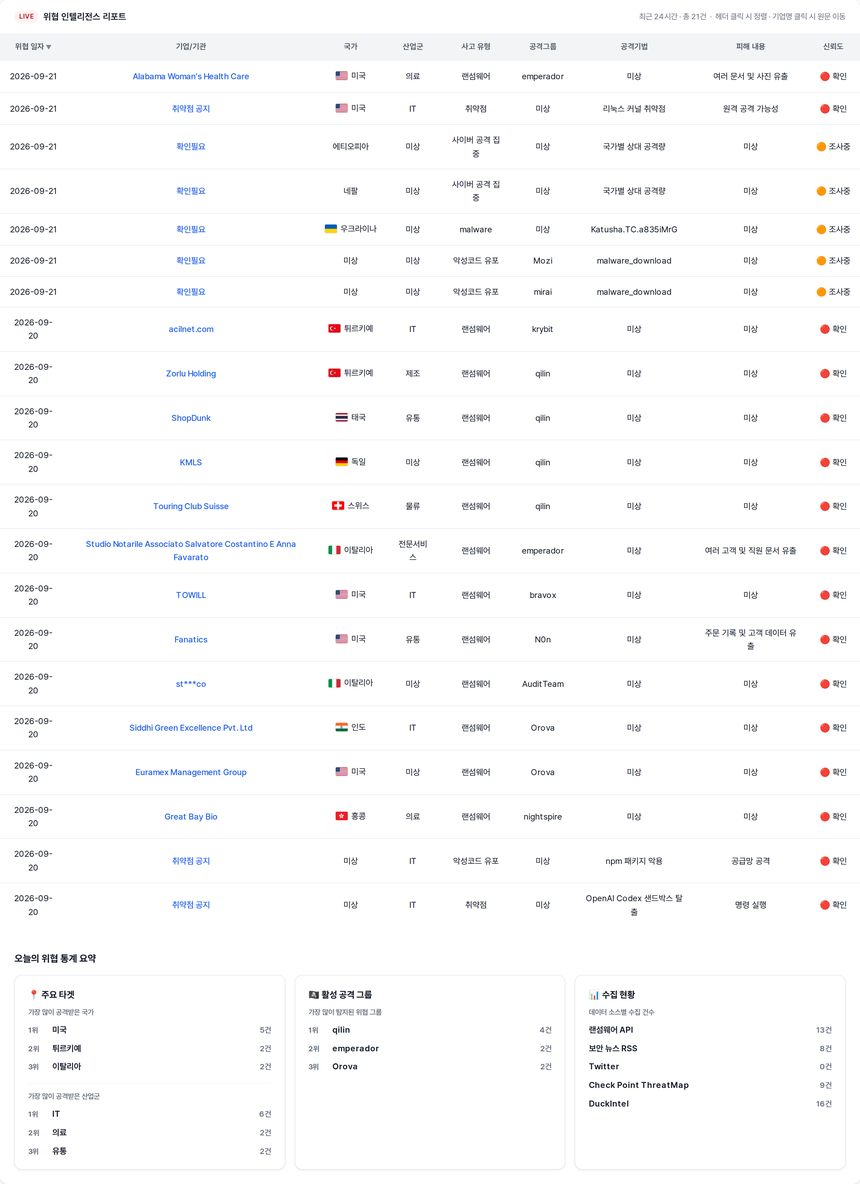
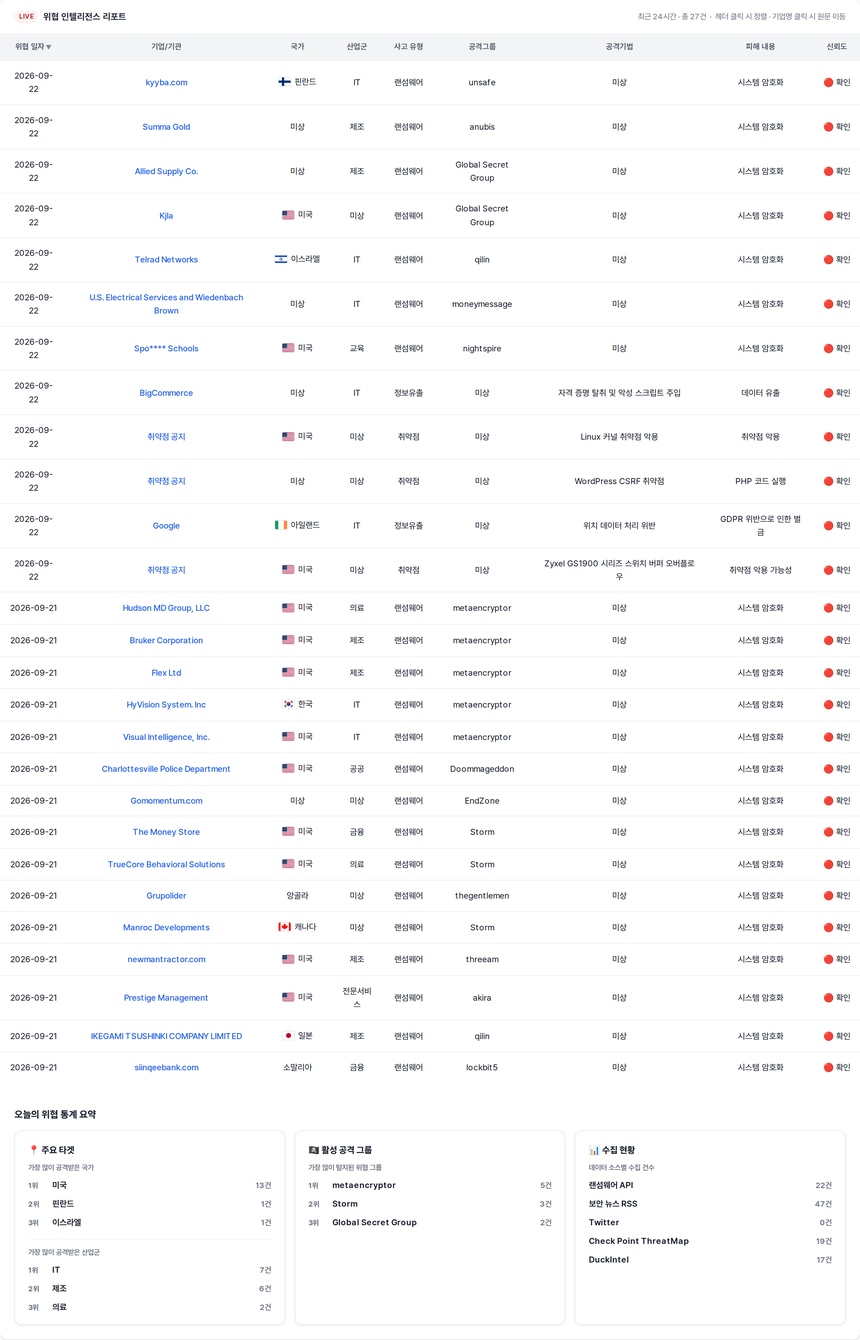
deploy: 9c533ad8fcaa3f846a31aadab046301a26f1192c

diff --git a/index.html b/index.html
@@ -3,7 +3,7 @@
 <head>
   <meta charset="UTF-8" />
   <meta name="viewport" content="width=device-width, initial-scale=1.0" />
-  <title>🚨 2026년 09월 21일 국내/해외 사이버 위협 현황</title>
+  <title>🚨 2026년 09월 22일 국내/해외 사이버 위협 현황</title>
   <link rel="preconnect" href="https://cdn.jsdelivr.net" />
   <link href="https://cdn.jsdelivr.net/gh/orioncactus/pretendard/dist/web/static/pretendard.css" rel="stylesheet" />
   <style>
@@ -253,7 +253,7 @@
 </head>
 <body>
   <div class="page-header">
-    <h1 class="page-title">🚨 2026년 09월 21일 국내/해외 사이버 위협 현황</h1>
+    <h1 class="page-title">🚨 2026년 09월 22일 국내/해외 사이버 위협 현황</h1>
   </div>
 
   <div class="dashboard">
@@ -261,33 +261,39 @@
     <div class="card-header">
       <span class="badge">LIVE</span>
       <span class="card-title">위협 인텔리전스 리포트</span>
-      <span class="card-count">최근 24시간 · 총 21건 &nbsp;·&nbsp; 헤더 클릭 시 정렬 · 기업명 클릭 시 원문 이동</span>
+      <span class="card-count">최근 24시간 · 총 27건 &nbsp;·&nbsp; 헤더 클릭 시 정렬 · 기업명 클릭 시 원문 이동</span>
     </div>
     <div class="table-wrap" style="overflow-x: auto; -webkit-overflow-scrolling: touch;">
       <table id="threat-table">
         <thead><tr><th onclick="sortTable(0)" data-col="0" class="sort-desc">위협 일자</th><th onclick="sortTable(1)" data-col="1">기업/기관</th><th onclick="sortTable(2)" data-col="2">국가</th><th onclick="sortTable(3)" data-col="3">산업군</th><th onclick="sortTable(4)" data-col="4">사고 유형</th><th onclick="sortTable(5)" data-col="5">공격그룹</th><th onclick="sortTable(6)" data-col="6">공격기법</th><th onclick="sortTable(7)" data-col="7">피해 내용</th><th onclick="sortTable(8)" data-col="8">신뢰도</th></tr></thead>
         <tbody>
-<tr><td>2026-09-21</td><td><a href="https://www.ransomware.live/id/QWxhYmFtYSBXb21hbidzIEhlYWx0aCBDYXJlQGVtcGVyYWRvcg==" target="_blank" rel="noopener noreferrer">Alabama Woman&#x27;s Health Care</a></td><td class="country"><span class="country-cell"><img class="flag" src="https://flagcdn.com/w40/us.png" alt="미국" width="20" height="14" />미국</span></td><td>의료</td><td>랜섬웨어</td><td>emperador</td><td>미상</td><td>여러 문서 및 사진 유출</td><td>🔴 확인</td></tr>
-<tr><td>2026-09-21</td><td><a href="https://www.dailysecu.com/news/articleView.html?idxno=208559" target="_blank" rel="noopener noreferrer">취약점 공지</a></td><td class="country"><span class="country-cell"><img class="flag" src="https://flagcdn.com/w40/us.png" alt="미국" width="20" height="14" />미국</span></td><td>IT</td><td>취약점</td><td>미상</td><td>리눅스 커널 취약점</td><td>원격 공격 가능성</td><td>🔴 확인</td></tr>
-<tr><td>2026-09-21</td><td><a href="https://threatmap.checkpoint.com/" target="_blank" rel="noopener noreferrer">확인필요</a></td><td class="country"><span class="country-cell">에티오피아</span></td><td>미상</td><td>사이버 공격 집중</td><td>미상</td><td>국가별 상대 공격량</td><td>미상</td><td>🟠 조사중</td></tr>
-<tr><td>2026-09-21</td><td><a href="https://threatmap.checkpoint.com/" target="_blank" rel="noopener noreferrer">확인필요</a></td><td class="country"><span class="country-cell">네팔</span></td><td>미상</td><td>사이버 공격 집중</td><td>미상</td><td>국가별 상대 공격량</td><td>미상</td><td>🟠 조사중</td></tr>
-<tr><td>2026-09-21</td><td><a href="https://threatmap.checkpoint.com/" target="_blank" rel="noopener noreferrer">확인필요</a></td><td class="country"><span class="country-cell"><img class="flag" src="https://flagcdn.com/w40/ua.png" alt="우크라이나" width="20" height="14" />우크라이나</span></td><td>미상</td><td>malware</td><td>미상</td><td>Katusha.TC.a835iMrG</td><td>미상</td><td>🟠 조사중</td></tr>
-<tr><td>2026-09-21</td><td><a href="https://urlhaus.abuse.ch/url/3919134/" target="_blank" rel="noopener noreferrer">확인필요</a></td><td class="country"><span class="country-cell">미상</span></td><td>미상</td><td>악성코드 유포</td><td>Mozi</td><td>malware_download</td><td>미상</td><td>🟠 조사중</td></tr>
-<tr><td>2026-09-21</td><td><a href="https://urlhaus.abuse.ch/url/3919133/" target="_blank" rel="noopener noreferrer">확인필요</a></td><td class="country"><span class="country-cell">미상</span></td><td>미상</td><td>악성코드 유포</td><td>mirai</td><td>malware_download</td><td>미상</td><td>🟠 조사중</td></tr>
-<tr><td>2026-09-20</td><td><a href="https://www.ransomware.live/id/YWNpbG5ldC5jb21Aa3J5Yml0" target="_blank" rel="noopener noreferrer">acilnet.com</a></td><td class="country"><span class="country-cell"><img class="flag" src="https://flagcdn.com/w40/tr.png" alt="튀르키예" width="20" height="14" />튀르키예</span></td><td>IT</td><td>랜섬웨어</td><td>krybit</td><td>미상</td><td>미상</td><td>🔴 확인</td></tr>
-<tr><td>2026-09-20</td><td><a href="https://www.ransomware.live/id/Wm9ybHUgSG9sZGluZ0BxaWxpbg==" target="_blank" rel="noopener noreferrer">Zorlu Holding</a></td><td class="country"><span class="country-cell"><img class="flag" src="https://flagcdn.com/w40/tr.png" alt="튀르키예" width="20" height="14" />튀르키예</span></td><td>제조</td><td>랜섬웨어</td><td>qilin</td><td>미상</td><td>미상</td><td>🔴 확인</td></tr>
-<tr><td>2026-09-20</td><td><a href="https://www.ransomware.live/id/U2hvcER1bmtAcWlsaW4=" target="_blank" rel="noopener noreferrer">ShopDunk</a></td><td class="country"><span class="country-cell"><img class="flag" src="https://flagcdn.com/w40/th.png" alt="태국" width="20" height="14" />태국</span></td><td>유통</td><td>랜섬웨어</td><td>qilin</td><td>미상</td><td>미상</td><td>🔴 확인</td></tr>
-<tr><td>2026-09-20</td><td><a href="https://www.ransomware.live/id/S01MU0BxaWxpbg==" target="_blank" rel="noopener noreferrer">KMLS</a></td><td class="country"><span class="country-cell"><img class="flag" src="https://flagcdn.com/w40/de.png" alt="독일" width="20" height="14" />독일</span></td><td>미상</td><td>랜섬웨어</td><td>qilin</td><td>미상</td><td>미상</td><td>🔴 확인</td></tr>
-<tr><td>2026-09-20</td><td><a href="https://www.ransomware.live/id/VG91cmluZyBDbHViIFN1aXNzZUBxaWxpbg==" target="_blank" rel="noopener noreferrer">Touring Club Suisse</a></td><td class="country"><span class="country-cell"><img class="flag" src="https://flagcdn.com/w40/ch.png" alt="스위스" width="20" height="14" />스위스</span></td><td>물류</td><td>랜섬웨어</td><td>qilin</td><td>미상</td><td>미상</td><td>🔴 확인</td></tr>
-<tr><td>2026-09-20</td><td><a href="https://www.ransomware.live/id/U3R1ZGlvIE5vdGFyaWxlIEFzc29jaWF0byBTYWx2YXRvcmUgQ29zdGFudGlubyBFIEFubmEgRmF2YXJhdG9AZW1wZXJhZG9y" target="_blank" rel="noopener noreferrer">Studio Notarile Associato Salvatore Costantino E Anna Favarato</a></td><td class="country"><span class="country-cell"><img class="flag" src="https://flagcdn.com/w40/it.png" alt="이탈리아" width="20" height="14" />이탈리아</span></td><td>전문서비스</td><td>랜섬웨어</td><td>emperador</td><td>미상</td><td>여러 고객 및 직원 문서 유출</td><td>🔴 확인</td></tr>
-<tr><td>2026-09-20</td><td><a href="https://www.ransomware.live/id/VE9XSUxMQGJyYXZveA==" target="_blank" rel="noopener noreferrer">TOWILL</a></td><td class="country"><span class="country-cell"><img class="flag" src="https://flagcdn.com/w40/us.png" alt="미국" width="20" height="14" />미국</span></td><td>IT</td><td>랜섬웨어</td><td>bravox</td><td>미상</td><td>미상</td><td>🔴 확인</td></tr>
-<tr><td>2026-09-20</td><td><a href="https://www.ransomware.live/id/RmFuYXRpY3MgKGdsb2JhbCBzcG9ydHMgY29tbWVyY2UgcGxhdGZvcm0pQE4wbg==" target="_blank" rel="noopener noreferrer">Fanatics</a></td><td class="country"><span class="country-cell"><img class="flag" src="https://flagcdn.com/w40/us.png" alt="미국" width="20" height="14" />미국</span></td><td>유통</td><td>랜섬웨어</td><td>N0n</td><td>미상</td><td>주문 기록 및 고객 데이터 유출</td><td>🔴 확인</td></tr>
-<tr><td>2026-09-20</td><td><a href="https://www.ransomware.live/id/c3QqKipjb0BBdWRpdFRlYW0=" target="_blank" rel="noopener noreferrer">st***co</a></td><td class="country"><span class="country-cell"><img class="flag" src="https://flagcdn.com/w40/it.png" alt="이탈리아" width="20" height="14" />이탈리아</span></td><td>미상</td><td>랜섬웨어</td><td>AuditTeam</td><td>미상</td><td>미상</td><td>🔴 확인</td></tr>
-<tr><td>2026-09-20</td><td><a href="https://www.ransomware.live/id/U2lkZGhpIEdyZWVuIEV4Y2VsbGVuY2UgUHZ0LiBMdGRAT3JvdmE=" target="_blank" rel="noopener noreferrer">Siddhi Green Excellence Pvt. Ltd</a></td><td class="country"><span class="country-cell"><img class="flag" src="https://flagcdn.com/w40/in.png" alt="인도" width="20" height="14" />인도</span></td><td>IT</td><td>랜섬웨어</td><td>Orova</td><td>미상</td><td>미상</td><td>🔴 확인</td></tr>
-<tr><td>2026-09-20</td><td><a href="https://www.ransomware.live/id/RXVyYW1leCBNYW5hZ2VtZW50IEdyb3VwQE9yb3Zh" target="_blank" rel="noopener noreferrer">Euramex Management Group</a></td><td class="country"><span class="country-cell"><img class="flag" src="https://flagcdn.com/w40/us.png" alt="미국" width="20" height="14" />미국</span></td><td>미상</td><td>랜섬웨어</td><td>Orova</td><td>미상</td><td>미상</td><td>🔴 확인</td></tr>
-<tr><td>2026-09-20</td><td><a href="https://www.ransomware.live/id/R3JlYXQgQmF5IEJpb0BuaWdodHNwaXJl" target="_blank" rel="noopener noreferrer">Great Bay Bio</a></td><td class="country"><span class="country-cell"><img class="flag" src="https://flagcdn.com/w40/hk.png" alt="홍콩" width="20" height="14" />홍콩</span></td><td>의료</td><td>랜섬웨어</td><td>nightspire</td><td>미상</td><td>미상</td><td>🔴 확인</td></tr>
-<tr><td>2026-09-20</td><td><a href="https://www.bleepingcomputer.com/news/security/malicious-npm-packages-evade-install-script-defenses-at-runtime/" target="_blank" rel="noopener noreferrer">취약점 공지</a></td><td class="country"><span class="country-cell">미상</span></td><td>IT</td><td>악성코드 유포</td><td>미상</td><td>npm 패키지 악용</td><td>공급망 공격</td><td>🔴 확인</td></tr>
-<tr><td>2026-09-20</td><td><a href="https://www.bleepingcomputer.com/news/security/researchers-escape-openai-codex-sandbox-to-run-commands-on-host/" target="_blank" rel="noopener noreferrer">취약점 공지</a></td><td class="country"><span class="country-cell">미상</span></td><td>IT</td><td>취약점</td><td>미상</td><td>OpenAI Codex 샌드박스 탈출</td><td>명령 실행</td><td>🔴 확인</td></tr>
+<tr><td>2026-09-22</td><td><a href="https://www.ransomware.live/id/a3l5YmEuY29tQHVuc2FmZQ==" target="_blank" rel="noopener noreferrer">kyyba.com</a></td><td class="country"><span class="country-cell"><img class="flag" src="https://flagcdn.com/w40/fi.png" alt="핀란드" width="20" height="14" />핀란드</span></td><td>IT</td><td>랜섬웨어</td><td>unsafe</td><td>미상</td><td>시스템 암호화</td><td>🔴 확인</td></tr>
+<tr><td>2026-09-22</td><td><a href="https://www.ransomware.live/id/U3VtbWEgR29sZEBhbnViaXM=" target="_blank" rel="noopener noreferrer">Summa Gold</a></td><td class="country"><span class="country-cell">미상</span></td><td>제조</td><td>랜섬웨어</td><td>anubis</td><td>미상</td><td>시스템 암호화</td><td>🔴 확인</td></tr>
+<tr><td>2026-09-22</td><td><a href="https://www.ransomware.live/id/QWxsaWVkIFN1cHBseSBDby5AR2xvYmFsIFNlY3JldCBHcm91cA==" target="_blank" rel="noopener noreferrer">Allied Supply Co.</a></td><td class="country"><span class="country-cell">미상</span></td><td>제조</td><td>랜섬웨어</td><td>Global Secret Group</td><td>미상</td><td>시스템 암호화</td><td>🔴 확인</td></tr>
+<tr><td>2026-09-22</td><td><a href="https://www.ransomware.live/id/S2psYUBHbG9iYWwgU2VjcmV0IEdyb3Vw" target="_blank" rel="noopener noreferrer">Kjla</a></td><td class="country"><span class="country-cell"><img class="flag" src="https://flagcdn.com/w40/us.png" alt="미국" width="20" height="14" />미국</span></td><td>미상</td><td>랜섬웨어</td><td>Global Secret Group</td><td>미상</td><td>시스템 암호화</td><td>🔴 확인</td></tr>
+<tr><td>2026-09-22</td><td><a href="https://www.ransomware.live/id/VGVscmFkIE5ldHdvcmtzQHFpbGlu" target="_blank" rel="noopener noreferrer">Telrad Networks</a></td><td class="country"><span class="country-cell"><img class="flag" src="https://flagcdn.com/w40/il.png" alt="이스라엘" width="20" height="14" />이스라엘</span></td><td>IT</td><td>랜섬웨어</td><td>qilin</td><td>미상</td><td>시스템 암호화</td><td>🔴 확인</td></tr>
+<tr><td>2026-09-22</td><td><a href="https://www.ransomware.live/id/VS5TLiBFbGVjdHJpY2FsIFNlcnZpY2VzIGFuZCBXaWVkZW5iYWNoIEJyb3duQG1vbmV5bWVzc2FnZQ==" target="_blank" rel="noopener noreferrer">U.S. Electrical Services and Wiedenbach Brown</a></td><td class="country"><span class="country-cell">미상</span></td><td>IT</td><td>랜섬웨어</td><td>moneymessage</td><td>미상</td><td>시스템 암호화</td><td>🔴 확인</td></tr>
+<tr><td>2026-09-22</td><td><a href="https://www.ransomware.live/id/U3BvKioqKiBTY2hvb2xzQG5pZ2h0c3BpcmU=" target="_blank" rel="noopener noreferrer">Spo**** Schools</a></td><td class="country"><span class="country-cell"><img class="flag" src="https://flagcdn.com/w40/us.png" alt="미국" width="20" height="14" />미국</span></td><td>교육</td><td>랜섬웨어</td><td>nightspire</td><td>미상</td><td>시스템 암호화</td><td>🔴 확인</td></tr>
+<tr><td>2026-09-22</td><td><a href="https://www.bleepingcomputer.com/news/security/bigcommerce-alerts-merchants-of-data-breach-linked-to-ribon-apps/" target="_blank" rel="noopener noreferrer">BigCommerce</a></td><td class="country"><span class="country-cell">미상</span></td><td>IT</td><td>정보유출</td><td>미상</td><td>자격 증명 탈취 및 악성 스크립트 주입</td><td>데이터 유출</td><td>🔴 확인</td></tr>
+<tr><td>2026-09-22</td><td><a href="https://www.bleepingcomputer.com/news/security/cisa-alerts-of-active-exploitation-of-three-linux-kernel-flaws/" target="_blank" rel="noopener noreferrer">취약점 공지</a></td><td class="country"><span class="country-cell"><img class="flag" src="https://flagcdn.com/w40/us.png" alt="미국" width="20" height="14" />미국</span></td><td>미상</td><td>취약점</td><td>미상</td><td>Linux 커널 취약점 악용</td><td>취약점 악용</td><td>🔴 확인</td></tr>
+<tr><td>2026-09-22</td><td><a href="https://www.bleepingcomputer.com/news/security/wordpress-click2shell-flaw-lets-hackers-execute-php-on-the-server/" target="_blank" rel="noopener noreferrer">취약점 공지</a></td><td class="country"><span class="country-cell">미상</span></td><td>미상</td><td>취약점</td><td>미상</td><td>WordPress CSRF 취약점</td><td>PHP 코드 실행</td><td>🔴 확인</td></tr>
+<tr><td>2026-09-22</td><td><a href="https://www.bleepingcomputer.com/news/security/google-fined-403-million-over-location-data-privacy-violations/" target="_blank" rel="noopener noreferrer">Google</a></td><td class="country"><span class="country-cell"><img class="flag" src="https://flagcdn.com/w40/ie.png" alt="아일랜드" width="20" height="14" />아일랜드</span></td><td>IT</td><td>정보유출</td><td>미상</td><td>위치 데이터 처리 위반</td><td>GDPR 위반으로 인한 벌금</td><td>🔴 확인</td></tr>
+<tr><td>2026-09-22</td><td><a href="https://nvd.nist.gov/vuln/detail/CVE-2026-7273" target="_blank" rel="noopener noreferrer">취약점 공지</a></td><td class="country"><span class="country-cell"><img class="flag" src="https://flagcdn.com/w40/us.png" alt="미국" width="20" height="14" />미국</span></td><td>미상</td><td>취약점</td><td>미상</td><td>Zyxel GS1900 시리즈 스위치 버퍼 오버플로우</td><td>취약점 악용 가능성</td><td>🔴 확인</td></tr>
+<tr><td>2026-09-21</td><td><a href="https://www.ransomware.live/id/SHVkc29uIE1EIEdyb3VwLCBMTENAbWV0YWVuY3J5cHRvcg==" target="_blank" rel="noopener noreferrer">Hudson MD Group, LLC</a></td><td class="country"><span class="country-cell"><img class="flag" src="https://flagcdn.com/w40/us.png" alt="미국" width="20" height="14" />미국</span></td><td>의료</td><td>랜섬웨어</td><td>metaencryptor</td><td>미상</td><td>시스템 암호화</td><td>🔴 확인</td></tr>
+<tr><td>2026-09-21</td><td><a href="https://www.ransomware.live/id/QnJ1a2VyIENvcnBvcmF0aW9uQG1ldGFlbmNyeXB0b3I=" target="_blank" rel="noopener noreferrer">Bruker Corporation</a></td><td class="country"><span class="country-cell"><img class="flag" src="https://flagcdn.com/w40/us.png" alt="미국" width="20" height="14" />미국</span></td><td>제조</td><td>랜섬웨어</td><td>metaencryptor</td><td>미상</td><td>시스템 암호화</td><td>🔴 확인</td></tr>
+<tr><td>2026-09-21</td><td><a href="https://www.ransomware.live/id/RmxleCBMdGRAbWV0YWVuY3J5cHRvcg==" target="_blank" rel="noopener noreferrer">Flex Ltd</a></td><td class="country"><span class="country-cell"><img class="flag" src="https://flagcdn.com/w40/us.png" alt="미국" width="20" height="14" />미국</span></td><td>제조</td><td>랜섬웨어</td><td>metaencryptor</td><td>미상</td><td>시스템 암호화</td><td>🔴 확인</td></tr>
+<tr><td>2026-09-21</td><td><a href="https://www.ransomware.live/id/SHlWaXNpb24gU3lzdGVtLiBJbmNAbWV0YWVuY3J5cHRvcg==" target="_blank" rel="noopener noreferrer">HyVision System. Inc</a></td><td class="country"><span class="country-cell"><img class="flag" src="https://flagcdn.com/w40/kr.png" alt="한국" width="20" height="14" />한국</span></td><td>IT</td><td>랜섬웨어</td><td>metaencryptor</td><td>미상</td><td>시스템 암호화</td><td>🔴 확인</td></tr>
+<tr><td>2026-09-21</td><td><a href="https://www.ransomware.live/id/VmlzdWFsIEludGVsbGlnZW5jZSwgSW5jLkBtZXRhZW5jcnlwdG9y" target="_blank" rel="noopener noreferrer">Visual Intelligence, Inc.</a></td><td class="country"><span class="country-cell"><img class="flag" src="https://flagcdn.com/w40/us.png" alt="미국" width="20" height="14" />미국</span></td><td>IT</td><td>랜섬웨어</td><td>metaencryptor</td><td>미상</td><td>시스템 암호화</td><td>🔴 확인</td></tr>
+<tr><td>2026-09-21</td><td><a href="https://www.ransomware.live/id/Q2hhcmxvdHRlc3ZpbGxlIFBvbGljZSBEZXBhcnRtZW50QERvb21tYWdlZGRvbg==" target="_blank" rel="noopener noreferrer">Charlottesville Police Department</a></td><td class="country"><span class="country-cell"><img class="flag" src="https://flagcdn.com/w40/us.png" alt="미국" width="20" height="14" />미국</span></td><td>공공</td><td>랜섬웨어</td><td>Doommageddon</td><td>미상</td><td>시스템 암호화</td><td>🔴 확인</td></tr>
+<tr><td>2026-09-21</td><td><a href="https://www.ransomware.live/id/R29tb21lbnR1bS5jb21ARW5kWm9uZQ==" target="_blank" rel="noopener noreferrer">Gomomentum.com</a></td><td class="country"><span class="country-cell">미상</span></td><td>미상</td><td>랜섬웨어</td><td>EndZone</td><td>미상</td><td>시스템 암호화</td><td>🔴 확인</td></tr>
+<tr><td>2026-09-21</td><td><a href="https://www.ransomware.live/id/VGhlIE1vbmV5IFN0b3JlQFN0b3Jt" target="_blank" rel="noopener noreferrer">The Money Store</a></td><td class="country"><span class="country-cell"><img class="flag" src="https://flagcdn.com/w40/us.png" alt="미국" width="20" height="14" />미국</span></td><td>금융</td><td>랜섬웨어</td><td>Storm</td><td>미상</td><td>시스템 암호화</td><td>🔴 확인</td></tr>
+<tr><td>2026-09-21</td><td><a href="https://www.ransomware.live/id/VHJ1ZUNvcmUgQmVoYXZpb3JhbCBTb2x1dGlvbnNAU3Rvcm0=" target="_blank" rel="noopener noreferrer">TrueCore Behavioral Solutions</a></td><td class="country"><span class="country-cell"><img class="flag" src="https://flagcdn.com/w40/us.png" alt="미국" width="20" height="14" />미국</span></td><td>의료</td><td>랜섬웨어</td><td>Storm</td><td>미상</td><td>시스템 암호화</td><td>🔴 확인</td></tr>
+<tr><td>2026-09-21</td><td><a href="https://www.ransomware.live/id/R3J1cG9saWRlckB0aGVnZW50bGVtZW4=" target="_blank" rel="noopener noreferrer">Grupolider</a></td><td class="country"><span class="country-cell">앙골라</span></td><td>미상</td><td>랜섬웨어</td><td>thegentlemen</td><td>미상</td><td>시스템 암호화</td><td>🔴 확인</td></tr>
+<tr><td>2026-09-21</td><td><a href="https://www.ransomware.live/id/TWFucm9jIERldmVsb3BtZW50c0BTdG9ybQ==" target="_blank" rel="noopener noreferrer">Manroc Developments</a></td><td class="country"><span class="country-cell"><img class="flag" src="https://flagcdn.com/w40/ca.png" alt="캐나다" width="20" height="14" />캐나다</span></td><td>미상</td><td>랜섬웨어</td><td>Storm</td><td>미상</td><td>시스템 암호화</td><td>🔴 확인</td></tr>
+<tr><td>2026-09-21</td><td><a href="https://www.ransomware.live/id/bmV3bWFudHJhY3Rvci5jb21AdGhyZWVhbQ==" target="_blank" rel="noopener noreferrer">newmantractor.com</a></td><td class="country"><span class="country-cell"><img class="flag" src="https://flagcdn.com/w40/us.png" alt="미국" width="20" height="14" />미국</span></td><td>제조</td><td>랜섬웨어</td><td>threeam</td><td>미상</td><td>시스템 암호화</td><td>🔴 확인</td></tr>
+<tr><td>2026-09-21</td><td><a href="https://www.ransomware.live/id/UHJlc3RpZ2UgTWFuYWdlbWVudEBha2lyYQ==" target="_blank" rel="noopener noreferrer">Prestige Management</a></td><td class="country"><span class="country-cell"><img class="flag" src="https://flagcdn.com/w40/us.png" alt="미국" width="20" height="14" />미국</span></td><td>전문서비스</td><td>랜섬웨어</td><td>akira</td><td>미상</td><td>시스템 암호화</td><td>🔴 확인</td></tr>
+<tr><td>2026-09-21</td><td><a href="https://www.ransomware.live/id/SUtFR0FNSSBUU1VTSElOS0kgQ09NUEFOWSBMSU1JVEVEQHFpbGlu" target="_blank" rel="noopener noreferrer">IKEGAMI TSUSHINKI COMPANY LIMITED</a></td><td class="country"><span class="country-cell"><img class="flag" src="https://flagcdn.com/w40/jp.png" alt="일본" width="20" height="14" />일본</span></td><td>제조</td><td>랜섬웨어</td><td>qilin</td><td>미상</td><td>시스템 암호화</td><td>🔴 확인</td></tr>
+<tr><td>2026-09-21</td><td><a href="https://www.ransomware.live/id/c2lpbnFlZWJhbmsuY29tQGxvY2tiaXQ1" target="_blank" rel="noopener noreferrer">siinqeebank.com</a></td><td class="country"><span class="country-cell">소말리아</span></td><td>금융</td><td>랜섬웨어</td><td>lockbit5</td><td>미상</td><td>시스템 암호화</td><td>🔴 확인</td></tr>
         </tbody>
       </table>
     </div>
@@ -298,19 +304,19 @@
       <article class="stat-card">
         <h3 class="stat-title">📍 주요 타겟</h3>
         <p class="stat-subtitle">가장 많이 공격받은 국가</p>
-        <ol class="stat-list"><li><span class="stat-rank">1위</span><span class="stat-name">미국</span><span class="stat-count">5건</span></li><li><span class="stat-rank">2위</span><span class="stat-name">튀르키예</span><span class="stat-count">2건</span></li><li><span class="stat-rank">3위</span><span class="stat-name">이탈리아</span><span class="stat-count">2건</span></li></ol>
+        <ol class="stat-list"><li><span class="stat-rank">1위</span><span class="stat-name">미국</span><span class="stat-count">13건</span></li><li><span class="stat-rank">2위</span><span class="stat-name">핀란드</span><span class="stat-count">1건</span></li><li><span class="stat-rank">3위</span><span class="stat-name">이스라엘</span><span class="stat-count">1건</span></li></ol>
         <p class="stat-subtitle stat-subtitle-gap">가장 많이 공격받은 산업군</p>
-        <ol class="stat-list"><li><span class="stat-rank">1위</span><span class="stat-name">IT</span><span class="stat-count">6건</span></li><li><span class="stat-rank">2위</span><span class="stat-name">의료</span><span class="stat-count">2건</span></li><li><span class="stat-rank">3위</span><span class="stat-name">유통</span><span class="stat-count">2건</span></li></ol>
+        <ol class="stat-list"><li><span class="stat-rank">1위</span><span class="stat-name">IT</span><span class="stat-count">7건</span></li><li><span class="stat-rank">2위</span><span class="stat-name">제조</span><span class="stat-count">6건</span></li><li><span class="stat-rank">3위</span><span class="stat-name">의료</span><span class="stat-count">2건</span></li></ol>
       </article>
       <article class="stat-card">
         <h3 class="stat-title">🏴☠ 활성 공격 그룹</h3>
         <p class="stat-subtitle">가장 많이 탐지된 위협 그룹</p>
-        <ol class="stat-list"><li><span class="stat-rank">1위</span><span class="stat-name">qilin</span><span class="stat-count">4건</span></li><li><span class="stat-rank">2위</span><span class="stat-name">emperador</span><span class="stat-count">2건</span></li><li><span class="stat-rank">3위</span><span class="stat-name">Orova</span><span class="stat-count">2건</span></li></ol>
+        <ol class="stat-list"><li><span class="stat-rank">1위</span><span class="stat-name">metaencryptor</span><span class="stat-count">5건</span></li><li><span class="stat-rank">2위</span><span class="stat-name">Storm</span><span class="stat-count">3건</span></li><li><span class="stat-rank">3위</span><span class="stat-name">Global Secret Group</span><span class="stat-count">2건</span></li></ol>
       </article>
       <article class="stat-card">
         <h3 class="stat-title">📊 수집 현황</h3>
         <p class="stat-subtitle">데이터 소스별 수집 건수</p>
-        <ul class="stat-list stat-sources"><li><span class="stat-name">랜섬웨어 API</span><span class="stat-count">13건</span></li><li><span class="stat-name">보안 뉴스 RSS</span><span class="stat-count">8건</span></li><li><span class="stat-name">Twitter</span><span class="stat-count">0건</span></li><li><span class="stat-name">Check Point ThreatMap</span><span class="stat-count">9건</span></li><li><span class="stat-name">DuckIntel</span><span class="stat-count">16건</span></li></ul>
+        <ul class="stat-list stat-sources"><li><span class="stat-name">랜섬웨어 API</span><span class="stat-count">22건</span></li><li><span class="stat-name">보안 뉴스 RSS</span><span class="stat-count">47건</span></li><li><span class="stat-name">Twitter</span><span class="stat-count">0건</span></li><li><span class="stat-name">Check Point ThreatMap</span><span class="stat-count">19건</span></li><li><span class="stat-name">DuckIntel</span><span class="stat-count">17건</span></li></ul>
       </article>
     </div>
   </section>
